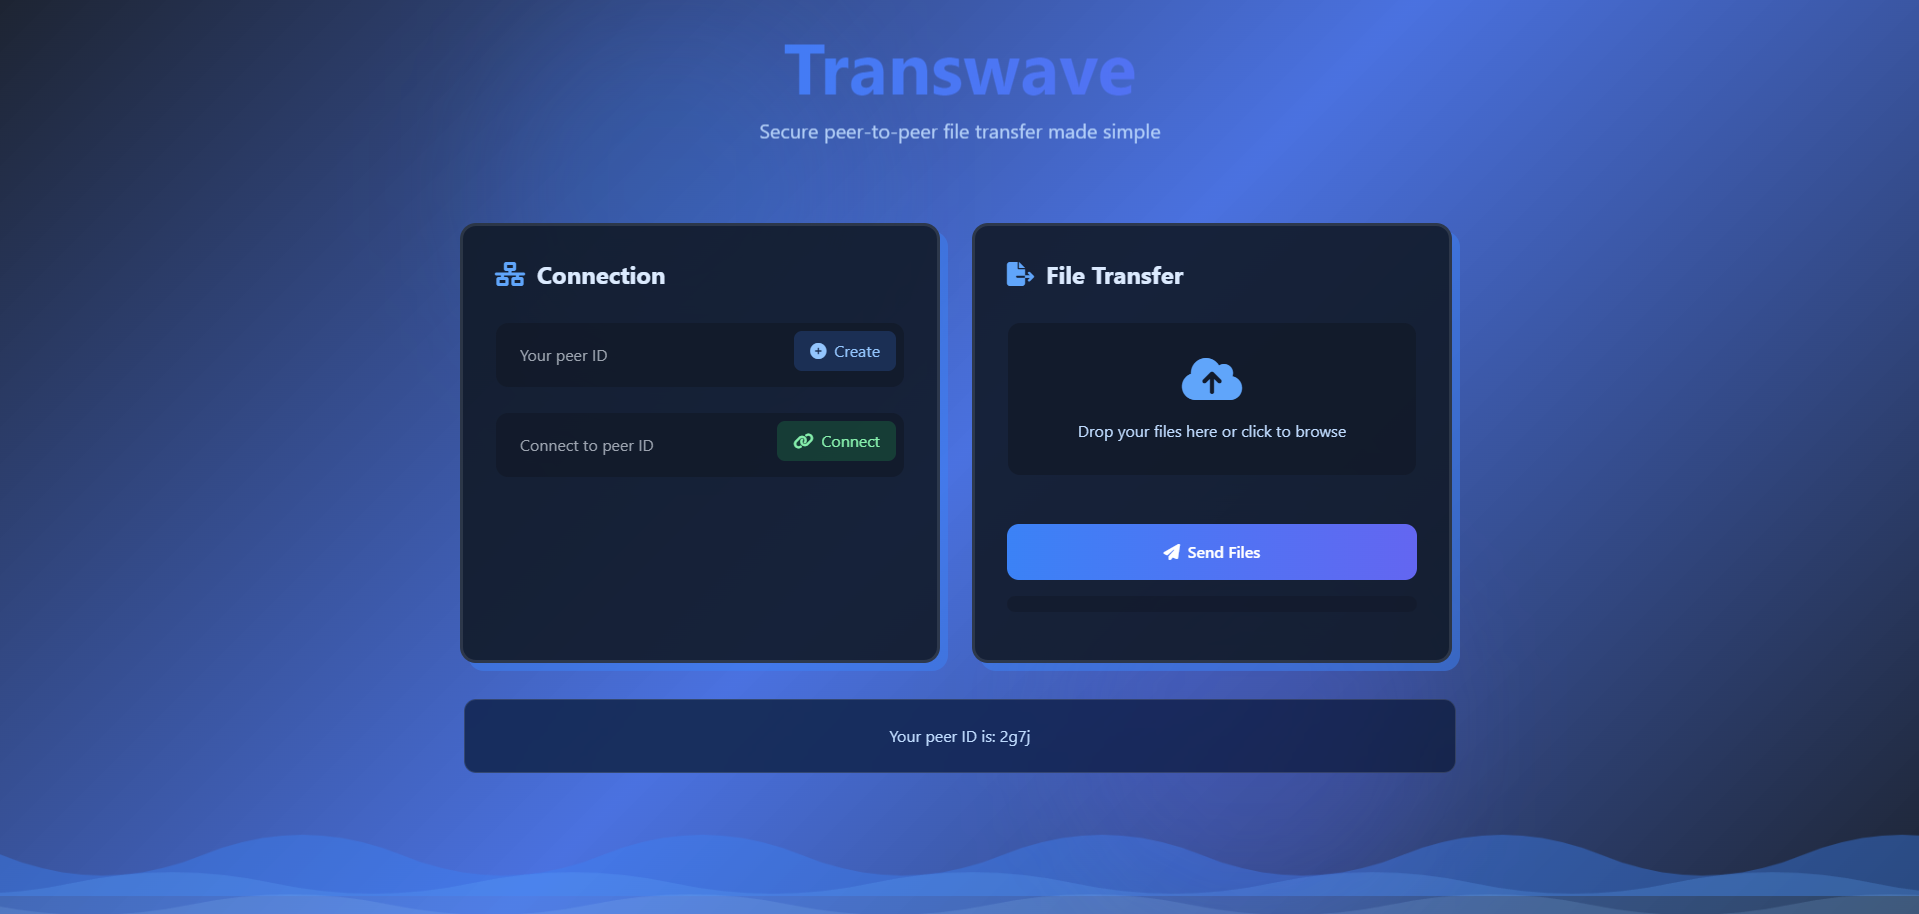
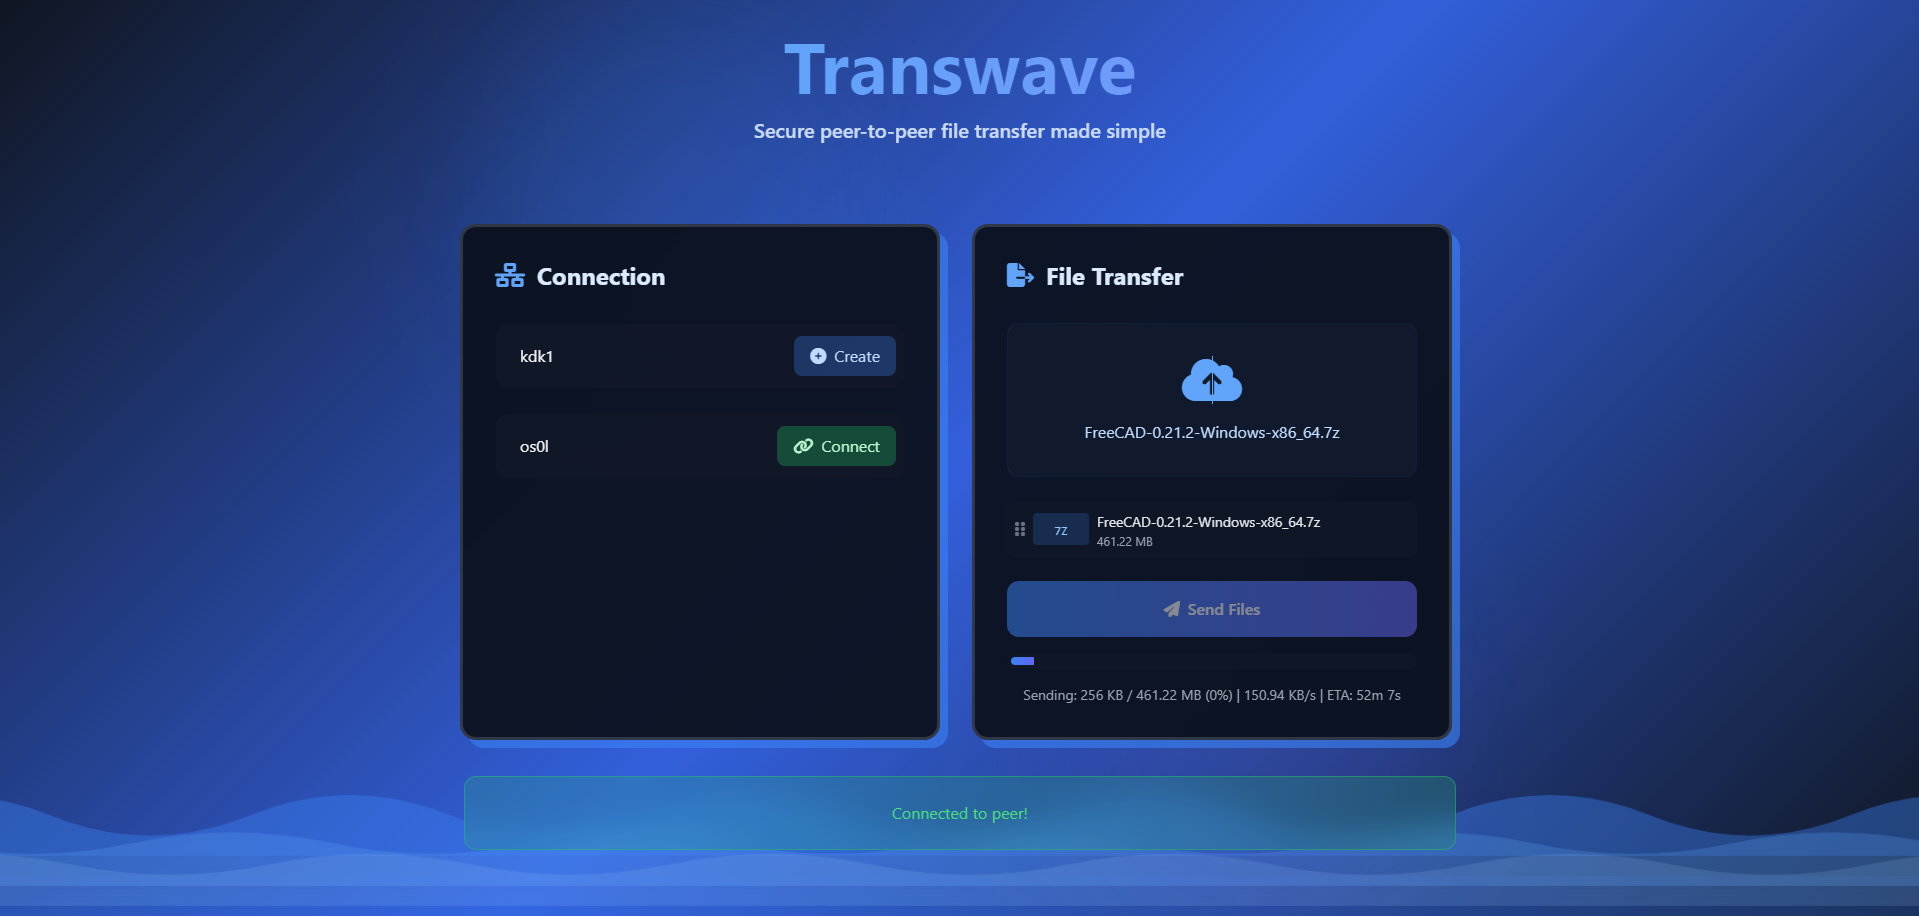
Update README with security features and encryption details and screenshot

diff --git a/README.md b/README.md
@@ -14,6 +14,13 @@ A secure peer-to-peer file transfer web application that allows direct file shar
 - Adaptive chunk size and window size for optimal performance
 - File queue management
 - Connection status indicators
+- End-to-end encryption for all file transfers
+- Secure key exchange using ECDH
+- AES-GCM encryption for file chunks
+- Checksum verification for file integrity
+- Drag and drop file support
+- Sortable file queue
+- Visual transfer progress with wave animation
 
 ## How to Use
 
@@ -26,6 +33,14 @@ A secure peer-to-peer file transfer web application that allows direct file shar
    - Click "Send Files" to start the transfer
    - Receiving files will automatically trigger a download
 
+## Security Features
+
+- **End-to-End Encryption**: All files are encrypted before transmission
+- **ECDH Key Exchange**: Secure key exchange between peers
+- **AES-GCM Encryption**: Strong encryption for file chunks
+- **No Server Storage**: Files exist only on sender and receiver devices
+- **Integrity Verification**: SHA-256 checksums for all transferred files
+
 ## Technical Features
 
 - WebRTC-based peer connections using PeerJS
@@ -33,6 +48,13 @@ A secure peer-to-peer file transfer web application that allows direct file shar
 - Dynamic transfer optimization
 - Responsive design using Tailwind CSS
 - Modern glass morphism and neo-brutalism design elements
+- End-to-end encryption using Web Crypto API
+- ECDH (P-384) for key exchange
+- AES-GCM for file encryption
+- SHA-256 for file integrity verification
+- Sortable.js for queue management
+- TailwindCSS for responsive design
+- Glass morphism and neo-brutalism UI elements
 
 ## Performance
 
@@ -48,6 +70,8 @@ Works in modern browsers that support:
 - ES6+ JavaScript
 - CSS Grid and Flexbox
 - Backdrop Filter
+- Web Crypto API
+- Secure Context (HTTPS or localhost)
 
 ## Setup
 
